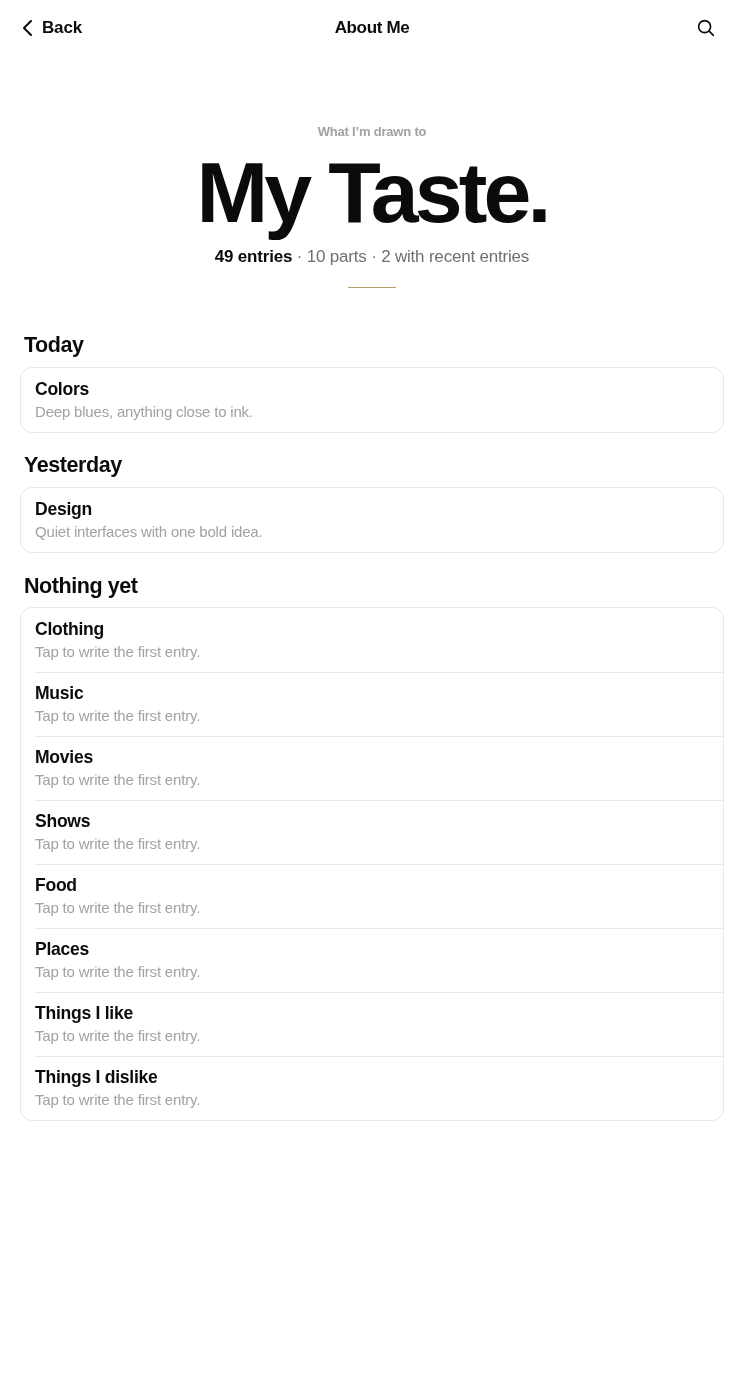
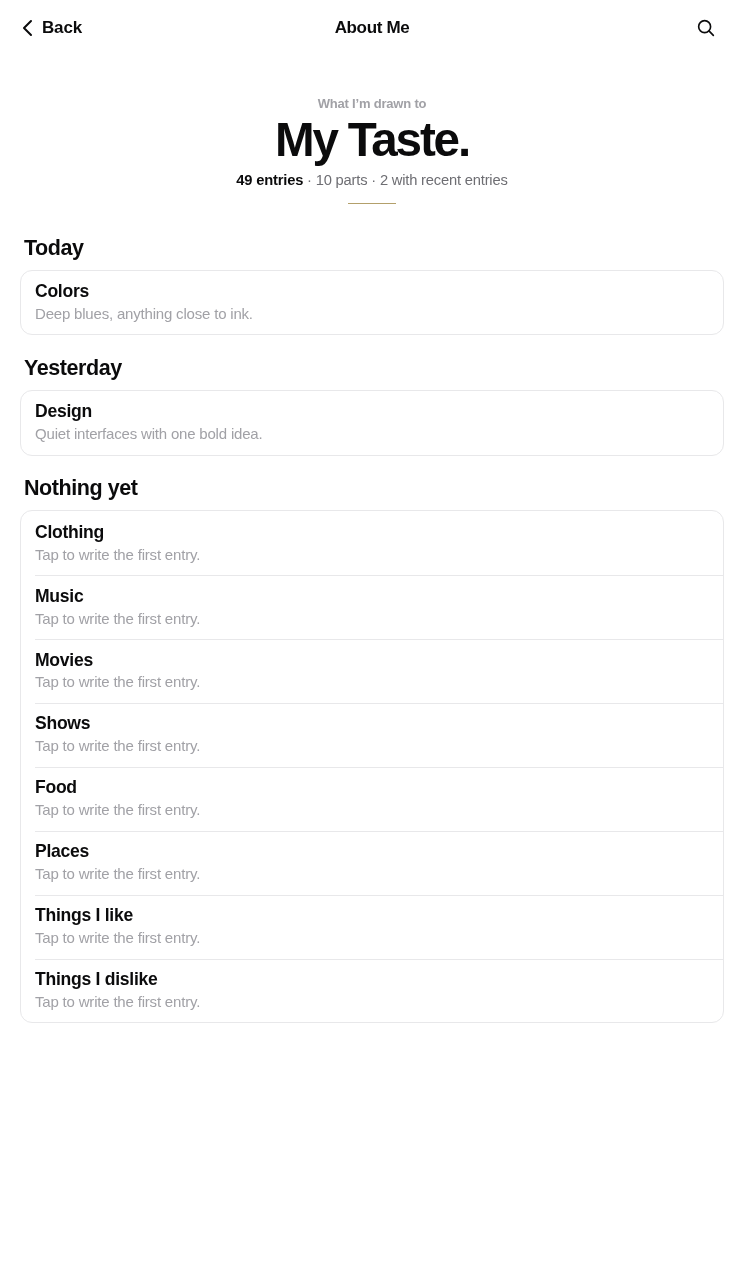
Shrink the section page header so the list leads
Claude-Session: https://claude.ai/code/session_01B2jaZ1SNYJtGLSRg6z58ic

diff --git a/index.html b/index.html
@@ -194,7 +194,11 @@ p { margin: 0; }
 /* Topics as a Notes-style list: date groups, rounded card, three-line rows */
 .notes { width: 100%; }
 /* Section pages use the full width of the screen */
-.home.chapter-page { max-width: none; gap: clamp(28px, 4vh, 48px); padding-block: clamp(32px, 6vh, 72px) 96px; }
+.home.chapter-page { max-width: none; gap: clamp(20px, 3vh, 32px); padding-block: clamp(20px, 3.5vh, 40px) 96px; }
+/* A smaller title on section pages so the list leads */
+.home.chapter-page .statement { gap: 8px; }
+.home.chapter-page .statement h1 { font-size: clamp(34px, 4.2vh, 56px); }
+.home.chapter-page .statement .sub { font-size: clamp(13px, 1.3vh, 15px); }
 html:not(.fit) .main { padding-inline: max(20px, env(safe-area-inset-left, 0px)) max(20px, env(safe-area-inset-right, 0px)); }
 .ngroup { margin-bottom: clamp(12px, 1.8vh, 22px); }
 .ngroup h2 { break-after: avoid; font: 700 clamp(18px, 1.9vh, 22px)/1.2 var(--sans); letter-spacing: -.02em; margin: 0 0 8px 4px; }

diff --git a/DESIGN.md b/DESIGN.md
@@ -50,7 +50,7 @@ Right Now has its own page (`#now`): the statement **Right now.**, then the four
 
 They use the same composition as home, so every page feels like the same book:
 
-1. **Opening**: the tagline in small grey ("What I'm drawn to"), the chapter title as the statement (**My Taste.**), then "49 entries · 10 parts · 2 with recent entries" and the gold hairline.
+1. **Opening (kept small so the list leads)**: the tagline in small grey ("What I’m drawn to"), the chapter title at ~34–56pt (**My Taste.**), then "49 entries · 10 parts · 2 with recent entries" and the gold hairline.
 2. **Topics, as one straight Notes-style list that scrolls**: grouped by when you last wrote in them (**Today**, **Yesterday**, **Earlier**, **Nothing yet**), each group a rounded card with hairline separators. Every row is two lines: the topic in bold, then one grey line (the latest entry, the topic's description, or "Tap to write the first entry."). No times, folder labels or tiles. The list spans the full width of the screen, with a 20pt margin (or the safe-area inset) on each side.
 3. **No What changed.** It appears only on the home screen. Section pages show just their title and parts, full width, in both orientations.
 
